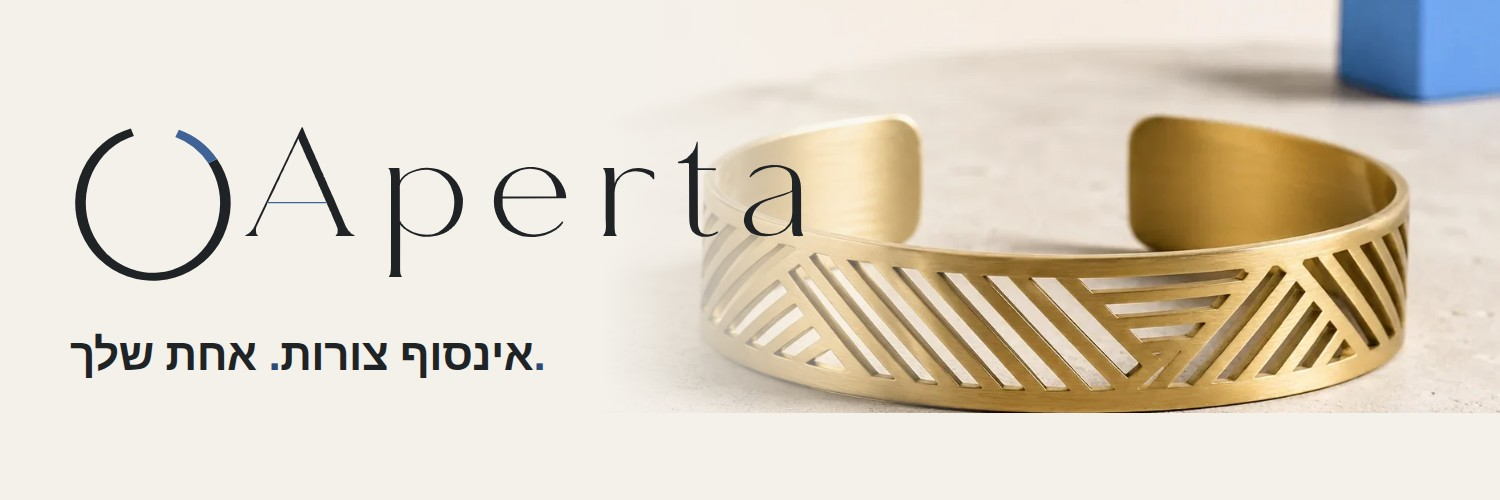
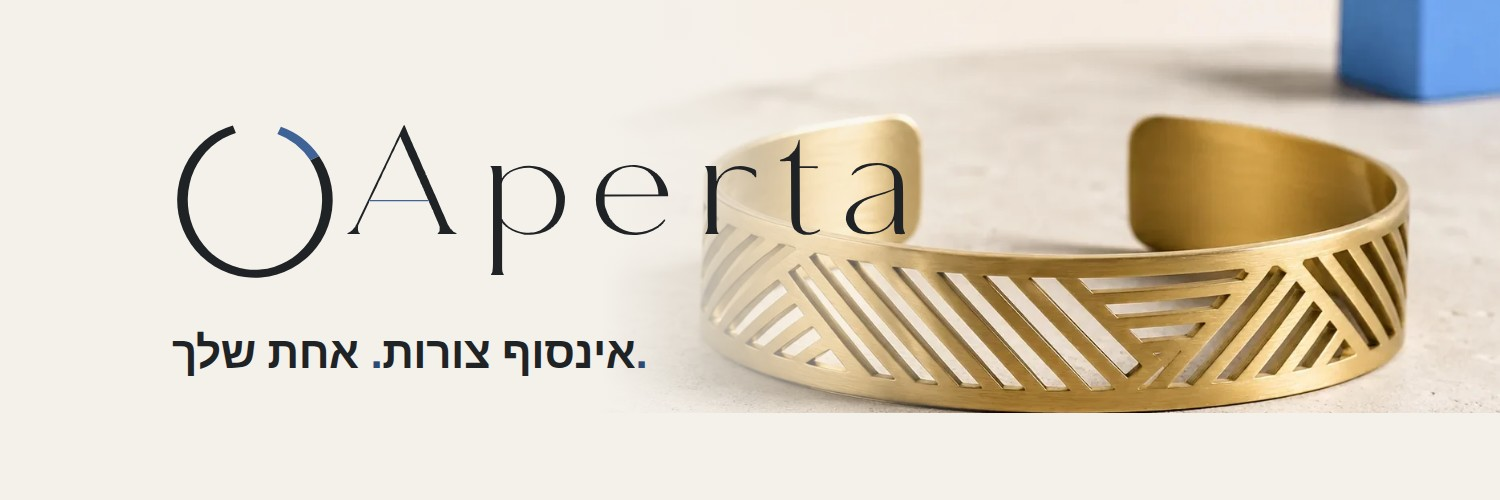
Fix missing punctuation in the Facebook/X cover tagline
The tagline's trailing period spans were silently failing to paint in
headless Chromium specifically when the tagline shared an absolutely
positioned, shrink-to-fit flex column with a preceding sibling (the
brand lockup) and used justify-content:center for vertical centering.
Replaced the centering with a precomputed integer pixel offset, which
sidesteps the paint bug entirely — confirmed by highlighting the
accent spans and by pixel-diffing the rendered output.

diff --git a/docs/brand/social/build-social-assets.py b/docs/brand/social/build-social-assets.py
@@ -101,12 +101,22 @@ write("profile.html", profile, size=(1000, 1000))
 # ---------------------------------------------------------------- 2/3. Covers
 def cover_html(w, h, mark_h):
     panel_w = w * 0.6
+    # `.content` is centered via an explicit integer `top` rather than
+    # `justify-content:center`: that combination (absolute + shrink-to-fit flex
+    # column + justify-content:center) hits a headless-Chromium paint bug where
+    # the trailing punctuation span in the last flex item silently fails to
+    # render. Pre-computing the offset in Python sidesteps it entirely.
+    mark_size = h * 0.30 * 1.106
+    gap = h * 0.09
+    tagline_font = max(h * 0.088, 32)
+    tagline_height = tagline_font * 1.25
+    content_top = round((h - (mark_size + gap + tagline_height)) / 2)
     return f'''<!doctype html><html><head><meta charset="utf-8">{FONTS_LINK}<style>{BASE_CSS}
 html,body{{width:{w}px;height:{h}px;background:var(--porcelain);position:relative;overflow:hidden;font-family:'Assistant',sans-serif;}}
 .photo{{position:absolute;top:0;bottom:0;right:0;width:{panel_w:.0f}px;background-image:url('{photo_url("bracelet-hero.webp")}');background-size:cover;background-position:60% 60%;}}
 .fade{{position:absolute;top:0;bottom:0;right:0;width:{panel_w:.0f}px;background:linear-gradient(to right, var(--porcelain) 0%, rgba(244,241,235,0) 45%);}}
-.content{{position:absolute;top:0;bottom:0;left:{h*0.14:.0f}px;display:flex;flex-direction:column;justify-content:center;gap:{h*0.09:.0f}px;}}
-.tagline{{font-size:{h*0.088:.0f}px;color:var(--graphite);font-weight:600;letter-spacing:-0.01em;}}
+.content{{position:absolute;top:{content_top}px;left:{w*0.115:.0f}px;display:flex;flex-direction:column;gap:{gap:.0f}px;}}
+.tagline{{font-size:{max(h*0.088, 32):.0f}px;color:var(--graphite);font-weight:700;letter-spacing:-0.01em;}}
 .tagline .accent{{color:var(--lapis-ink);}}
 </style></head><body>
 <div class="photo"></div>
